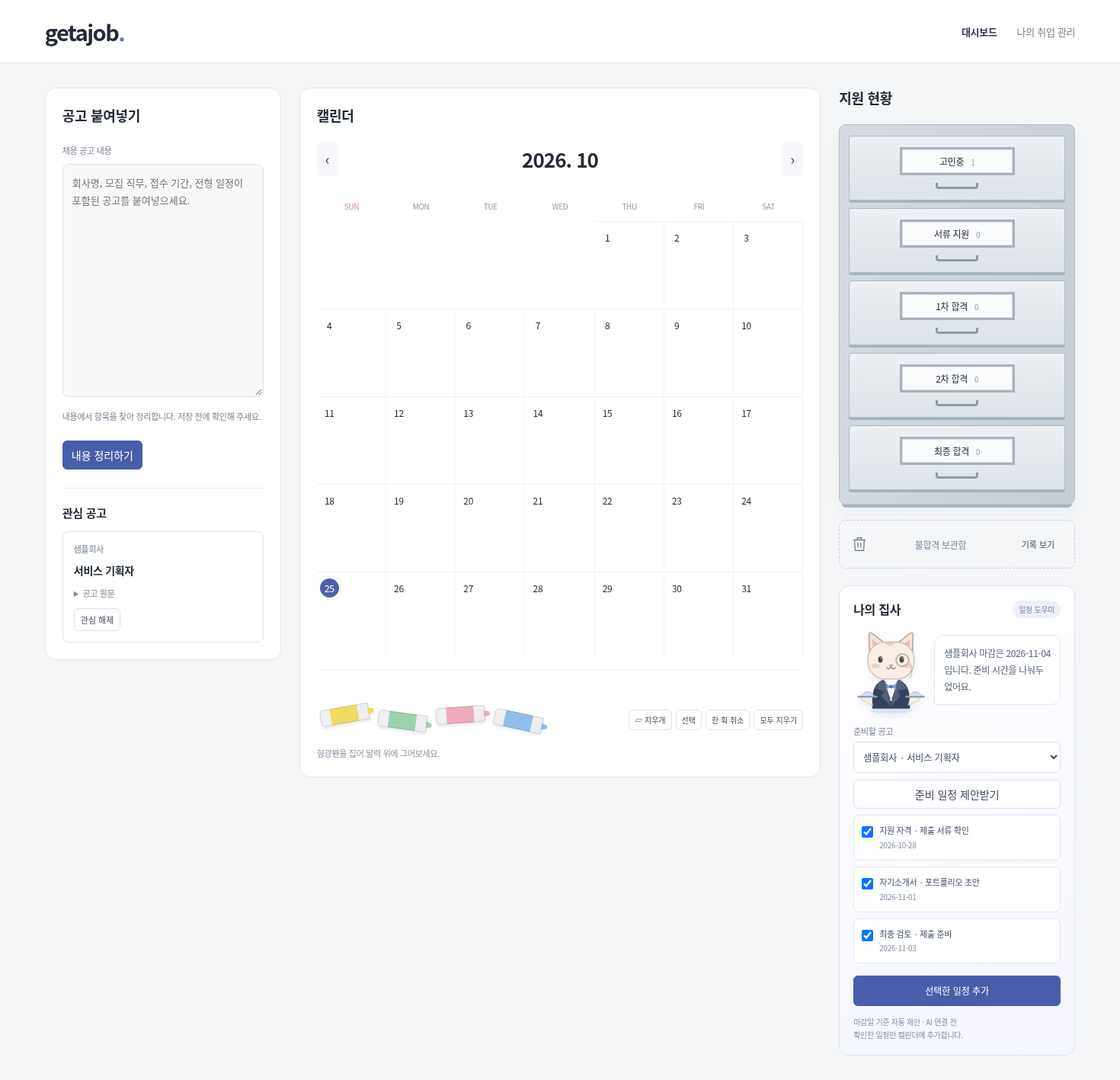
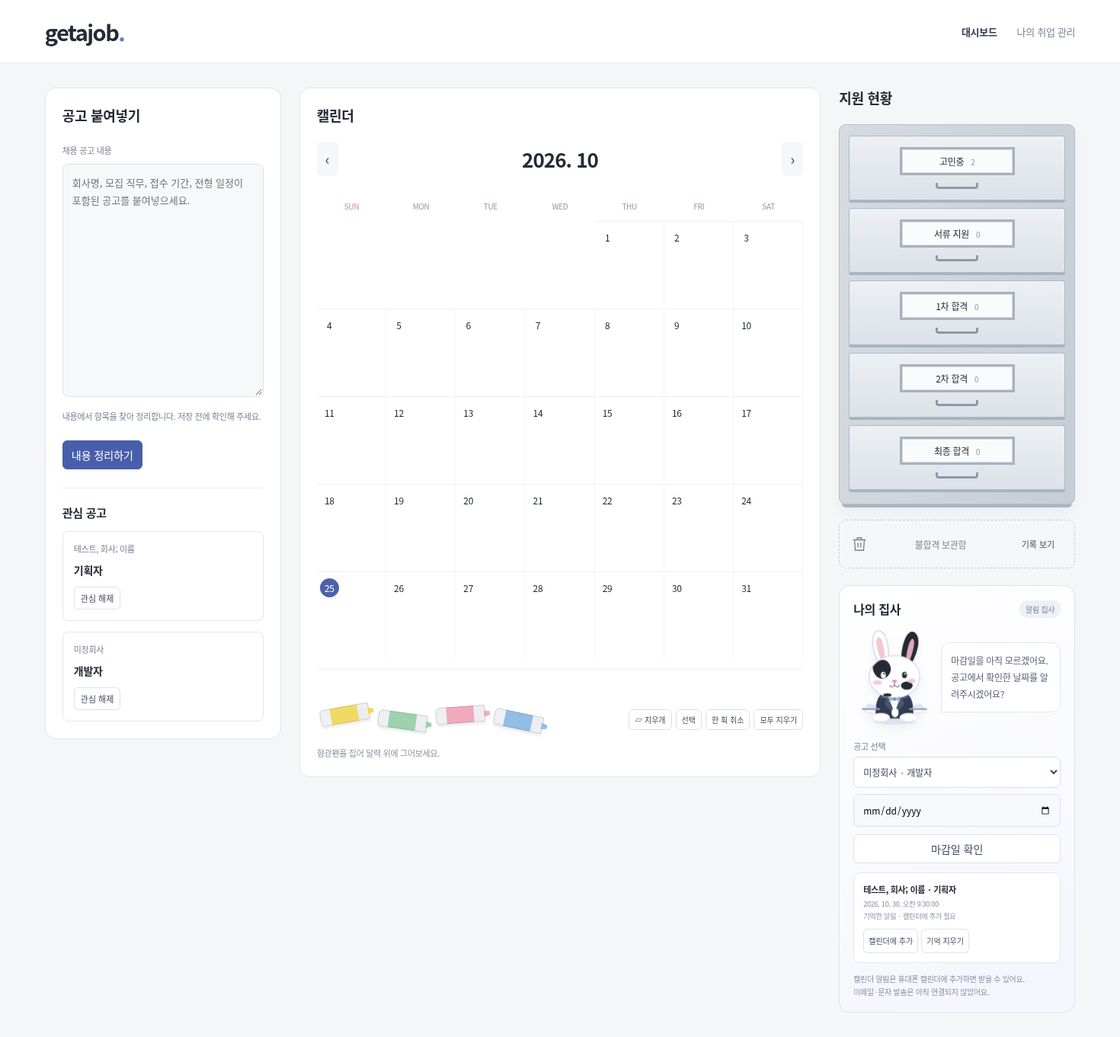
Replace butler with spotted rabbit and calendar reminder flow

diff --git a/index.html b/index.html
@@ -14,12 +14,12 @@ textarea{width:100%;resize:vertical;border:1px solid #dce1e8;border-radius:8px;b
 @media(prefers-reduced-motion:reduce){.stage-effect .confetti,.stage-effect .tear{display:none}.celebrate-badge,.cry-face{animation:effect-fade .8s ease both;transform:translate(-50%,-50%)}.drawer.celebrating{animation:none}@keyframes effect-fade{0%,100%{opacity:0}20%,70%{opacity:1}}}
 
 .butler-panel{margin-top:22px;background:linear-gradient(155deg,#fff,#f4f5fd);border:1px solid #dce2f0;border-radius:14px;padding:18px;overflow:hidden}.butler-heading{display:flex;align-items:center;justify-content:space-between;margin-bottom:8px}.butler-heading h2{margin:0;font-size:16px}.butler-status{font-size:10px;color:#7f879c;background:#edf0f9;border-radius:20px;padding:4px 8px}.butler-welcome{display:flex;align-items:center;gap:7px}.butler-avatar{width:99px;height:120px;flex-shrink:0;filter:drop-shadow(0 5px 5px #545e7915);animation:butler-breathe 4s ease-in-out infinite}.butler-eyes{transform-origin:50% 40%;animation:butler-blink 6s infinite}.butler-message{font-size:12px;line-height:1.85;background:#fff;border:1px solid #e0e5f0;padding:12px;border-radius:12px 12px 12px 2px;color:#55617b}.butler-panel label{display:block;font-size:11px;color:#758099;margin:12px 0 6px}.butler-panel select{width:100%;padding:10px 8px;border:1px solid #d8dfec;background:#fff;border-radius:7px;font-size:12px;color:#394763}.butler-panel>button{width:100%;margin-top:9px}.butler-plan{font-size:12px;color:#54617b;line-height:1.8}.plan-row{display:flex!important;align-items:start;gap:8px;background:#fff;border:1px solid #e1e6f0;border-radius:8px;padding:10px;margin:8px 0!important;color:#42506b!important}.plan-row input{width:15px;height:15px;margin:4px 0 0;flex-shrink:0}.plan-row small{display:block;color:#8490a5;font-size:10px}.plan-warning{color:#ad7950!important}.butler-note{font-size:10px;color:#8992a6;line-height:1.7;margin:12px 0 0}#applyPlan{width:100%;margin-top:8px}.butler-panel[aria-busy=true] .butler-avatar{animation:butler-breathe .7s ease-in-out infinite}@keyframes butler-breathe{0%,100%{transform:translateY(0)}50%{transform:translateY(-3px)}}@keyframes butler-blink{0%,44%,48%,100%{transform:scaleY(1)}46%{transform:scaleY(.12)}}@media(prefers-reduced-motion:reduce){.butler-avatar,.butler-eyes{animation:none}}
-</style></head><body>
+.rabbit{width:108px;height:140px}.rabbit-ears{transform-origin:70px 65px;animation:ear-wiggle 5s ease-in-out infinite}.reminder-card{margin-top:12px;padding:12px;background:white;border:1px solid #e0e5f0;border-radius:9px;font-size:11px;line-height:1.8}.reminder-card strong,.reminder-card small{display:block}.reminder-card small{color:#8390a5}.reminder-card button{padding:6px;font-size:10px;margin:8px 4px 0 0}#reminderFlow>button{width:100%;margin-top:10px}#reminderAt,#setDeadline{margin-top:8px}#reminderFlow .hint{color:#ac6f57}@keyframes ear-wiggle{0%,70%,100%{transform:rotate(0)}76%{transform:rotate(-4deg)}82%{transform:rotate(3deg)}}@media(prefers-reduced-motion:reduce){.rabbit-ears{animation:none}}</style></head><body>
 <header><div class="brand">getajob<span>.</span></div><nav><b>대시보드</b><span>나의 취업 관리</span></nav></header>
 <main><section class="panel"><h2>공고 붙여넣기</h2><noscript><p role="alert">이 미리보기에서는 버튼이 작동하지 않습니다. HTML 파일을 다운로드한 뒤 Chrome 또는 Edge에서 열어 주세요.</p></noscript><form id="pasteForm"><label for="postingText" class="caption">채용 공고 내용</label><textarea id="postingText" rows="12" maxlength="30000" required placeholder="회사명, 모집 직무, 접수 기간, 전형 일정이 포함된 공고를 붙여넣으세요."></textarea><p class="caption">내용에서 항목을 찾아 정리합니다. 저장 전에 확인해 주세요.</p><button id="organizePosting" class="primary" type="button">내용 정리하기</button><p id="pasteError" class="hint" role="alert"></p></form><section id="jobEditor" class="inline-review" hidden aria-label="공고 내용 확인"><form id="jobForm" novalidate><h2>내용 확인</h2><p class="caption">빈칸과 날짜를 확인해 주세요. 연도가 없는 날짜는 직접 지정해 주세요.</p><label for="company">회사</label><input id="company" required maxlength="60" placeholder="회사명 확인 필요"><label for="jobTitle">직무</label><input id="jobTitle" required maxlength="100" placeholder="직무 확인 필요"><label for="jobUrl">공고 링크 (선택)</label><input id="jobUrl" type="url" placeholder="https://…"><div class="section-title"><h2>마감일 · 전형 일정</h2><button id="addSchedule" type="button">+ 일정</button></div><div id="reviewSchedules"></div><p id="reviewError" role="alert" class="hint"></p><div class="actions"><button type="button" data-close>취소</button><button id="savePosting" type="button" class="primary">확인하고 저장</button></div></form></section>
 <div class="section-title"><h2>관심 공고</h2></div><div id="jobs"></div></section>
 <section class="panel calendar"><h2>캘린더</h2><div class="month"><button id="prev" aria-label="이전 달">‹</button><strong id="month"></strong><button id="next" aria-label="다음 달">›</button></div><div class="week"><span>SUN</span><span>MON</span><span>TUE</span><span>WED</span><span>THU</span><span>FRI</span><span>SAT</span></div><div class="calendar-surface" id="surface"><div class="days" id="days"></div><svg id="ink" aria-label="달력 형광펜"></svg></div><div class="tools"><div id="colors" style="display:flex;gap:3px;align-items:center"></div><div class="tool-actions"><button id="eraser" aria-label="지우개" aria-pressed="false" title="드래그해서 부분 지우기">▱ 지우개</button><button id="pointer" aria-pressed="true">선택</button><button id="undo">한 획 취소</button><button id="clearInk">모두 지우기</button></div></div><p class="hint" id="toolHint">형광펜을 집어 달력 위에 그어보세요.</p></section>
-<section class="right"><h2>지원 현황</h2><div class="cabinet" id="drawers"></div><div id="trash" class="trash"><svg viewBox="0 0 24 24" fill="none" stroke="currentColor" stroke-width="1.5"><path d="M3 6h18M9 6V3h6v3M5 6l1 15h12l1-15M10 10v7M14 10v7"/></svg><span>불합격 보관함</span><button id="showRejected">기록 보기</button></div><aside class="butler-panel" aria-label="집사 비서"><div class="butler-heading"><h2>나의 집사</h2><span class="butler-status">일정 도우미</span></div><div class="butler-welcome"><svg class="butler-avatar" viewBox="0 0 120 145" role="img" aria-label="나비넥타이와 정장을 입은 귀여운 고양이 집사"><ellipse cx="60" cy="137" rx="33" ry="5" fill="#dce2f0"/><path d="M30 122q0-36 30-36t30 36v12H30z" fill="#35425e"/><path d="M48 87h24l-12 35z" fill="#fff"/><path d="M44 89l-9 13 14 4-4 8 15 17-9-40m25-2 9 13-14 4 4 8-15 17 9-40" fill="#52607a"/><path d="M52 94l8 5-8 5zM68 94l-8 5 8 5z" fill="#8195d1"/><circle cx="60" cy="99" r="3" fill="#6276b1"/><circle cx="60" cy="120" r="2" fill="#d8dfea"/><path d="M26 53 25 17q0-6 6-2l19 15m44 23 1-36q0-6-6-2L70 30" fill="#f4e5d9" stroke="#b8a99e" stroke-width="2"/><path d="m30 24 2 22 13-11m45-11-2 22-13-11" fill="#eab9bd"/><rect x="23" y="28" width="74" height="59" rx="28" fill="#f8eee5" stroke="#cbbdb2" stroke-width="1.5"/><path d="M49 29q9 10 19 0" fill="#e3d1c1"/><g class="butler-eyes"><ellipse cx="43" cy="56" rx="3.5" ry="5" fill="#3d4050"/><ellipse cx="77" cy="56" rx="3.5" ry="5" fill="#3d4050"/><circle cx="44" cy="54" r="1" fill="white"/><circle cx="78" cy="54" r="1" fill="white"/></g><ellipse cx="35" cy="66" rx="7" ry="4" fill="#eebfc3" opacity=".65"/><ellipse cx="85" cy="66" rx="7" ry="4" fill="#eebfc3" opacity=".65"/><path d="m56 64 4 3 4-3" fill="#bd8e92"/><path d="M60 67q-3 7-7 2m7-2q3 7 7 2" fill="none" stroke="#8d7775" stroke-width="1.5" stroke-linecap="round"/><circle cx="78" cy="57" r="10" fill="none" stroke="#a99877" stroke-width="1.5"/><path d="M88 59q9 13 2 26" fill="none" stroke="#a99877" stroke-width="1"/><path d="M27 112q-13-2-15 8l19 9m60-17q13-2 15 8l-19 9" fill="#f8eee5" stroke="#cbbdb2"/><path d="M8 115h29m47 0h28" stroke="#8d9bb4" stroke-width="3" stroke-linecap="round"/><path d="M12 114q11-14 21 0m55 0q11-14 21 0" fill="#d5dfef" stroke="#9daec8"/></svg><div class="butler-message" id="butlerMessage" role="status">어서 오세요.<br>공고를 골라주시면 준비 일정을 챙겨드릴게요.</div></div><label for="butlerJob">준비할 공고</label><select id="butlerJob"><option value="">저장한 공고가 없습니다</option></select><button id="suggestPlan" type="button">준비 일정 제안받기</button><div id="butlerPlan" class="butler-plan"></div><p class="butler-note">마감일 기준 자동 제안 · AI 연결 전<br>확인한 일정만 캘린더에 추가합니다.</p></aside></section></main>
+<section class="right"><h2>지원 현황</h2><div class="cabinet" id="drawers"></div><div id="trash" class="trash"><svg viewBox="0 0 24 24" fill="none" stroke="currentColor" stroke-width="1.5"><path d="M3 6h18M9 6V3h6v3M5 6l1 15h12l1-15M10 10v7M14 10v7"/></svg><span>불합격 보관함</span><button id="showRejected">기록 보기</button></div><aside class="butler-panel" aria-label="집사 비서"><div class="butler-heading"><h2>나의 집사</h2><span class="butler-status">알림 집사</span></div><div class="butler-welcome"><svg class="butler-avatar rabbit" viewBox="0 0 140 170" role="img" aria-label="흰 털에 검정 점박이, 긴 귀와 나비넥타이를 한 토끼 집사"><ellipse cx="70" cy="160" rx="35" ry="5" fill="#dce2ef"/><g class="rabbit-ears"><path d="M48 71C23 26 34 0 47 7c13 7 13 36 14 57" fill="#fff" stroke="#ced3de" stroke-width="1.5"/><path d="M81 65C80 25 94-2 106 10c12 13-1 44-13 61" fill="#242a35"/><path d="M47 54C36 30 38 15 44 17s9 20 10 35" fill="#f4c7d3"/><path d="M90 54c1-20 8-38 12-34s-1 23-6 36" fill="#e1a8bc"/></g><path d="M38 143c0-24 10-37 32-37s32 13 32 37v12H38z" fill="#303b54"/><path d="m55 108 15 37 15-37" fill="#fff"/><path d="m53 108-8 12 12 2-4 8 17 20-13-40m30-2 8 12-12 2 4 8-17 20 13-40" fill="#485672"/><ellipse cx="71" cy="145" rx="6" ry="8" fill="#fff"/><ellipse cx="47" cy="153" rx="15" ry="7" fill="#fff" stroke="#e0e4ec"/><ellipse cx="94" cy="153" rx="15" ry="7" fill="#fff" stroke="#e0e4ec"/><ellipse cx="70" cy="84" rx="43" ry="36" fill="#fff" stroke="#d3d8e2" stroke-width="1.5"/><path d="M33 67q14-18 25-9c10 10 6 23-4 28S33 80 33 67" fill="#242a35"/><ellipse cx="91" cy="99" rx="10" ry="7" fill="#242a35"/><ellipse cx="58" cy="115" rx="7" ry="3" fill="#242a35"/><g class="butler-eyes"><ellipse cx="51" cy="81" rx="4.2" ry="5.5" fill="#fff"/><ellipse cx="87" cy="81" rx="4.2" ry="5.5" fill="#282d38"/><circle cx="52" cy="79" r="1.5" fill="#282d38"/><circle cx="88" cy="79" r="1.5" fill="#fff"/></g><ellipse cx="41" cy="94" rx="8" ry="4" fill="#f2becb" opacity=".8"/><ellipse cx="99" cy="91" rx="7" ry="4" fill="#f2becb" opacity=".8"/><path d="m65 91 5 4 5-4q-5-4-10 0" fill="#d996ae"/><path d="M70 95v3m0 0q-4 6-8 1m8-1q4 6 8 1" fill="none" stroke="#8a7580" stroke-width="1.6" stroke-linecap="round"/><path d="m61 117 9 5-9 5zm18 0-9 5 9 5z" fill="#9eaede"/><circle cx="70" cy="122" r="3" fill="#7489c2"/><path d="M33 133q-10-6-13 4t14 8m72-12q10-6 13 4t-14 8" fill="#fff" stroke="#d3d8e2"/><path d="M16 139h28m52 0h28" stroke="#8e9db9" stroke-width="3" stroke-linecap="round"/><path d="M20 137q10-13 20 0m60 0q10-13 20 0" fill="#dbe3f3"/></svg><div class="butler-message" id="butlerMessage" role="status">어서 오세요.<br>공고를 골라주시면 마감 알림을 챙겨드릴게요.</div></div><label for="butlerJob">공고 선택</label><select id="butlerJob"><option value="">저장한 공고가 없습니다</option></select><div id="reminderFlow"></div><div id="reminderList"></div><p class="butler-note">캘린더 알림은 휴대폰 캘린더에 추가하면 받을 수 있어요.<br>이메일·문자 발송은 아직 연결되지 않았어요.</p></aside></section></main>
 <dialog id="editor"><form id="eventForm"><h2 id="eventHeading">일정</h2><label for="eventTitle">일정 이름</label><input id="eventTitle" required maxlength="70" placeholder="서류 마감, 면접"><div class="actions"><button type="button" data-close>취소</button><button type="button" id="saveEvent" class="primary">저장</button><p id="eventError" role="alert"></p></div></form></dialog>
 <dialog id="archive"><h2>불합격 보관함</h2><div id="archiveList"></div><div class="actions"><button data-close>닫기</button></div></dialog><div id="toast" role="status"></div><div id="effectAnnouncement" class="sr-only" role="status" aria-live="polite"></div>
 <script>
@@ -66,12 +66,17 @@ function organizePosting(){const button=$('#organizePosting');$('#pasteError').t
 function createJobId(){if(globalThis.crypto&&typeof globalThis.crypto.randomUUID==='function')return globalThis.crypto.randomUUID();if(globalThis.crypto&&typeof globalThis.crypto.getRandomValues==='function'){const bytes=new Uint8Array(16);globalThis.crypto.getRandomValues(bytes);return 'job-'+Array.from(bytes,b=>b.toString(16).padStart(2,'0')).join('')}let id;do{id='job-'+Date.now().toString(36)+'-'+Math.random().toString(36).slice(2)}while(state.jobs.some(j=>j.id===id));return id}
 function reviewError(message,field){$('#reviewError').textContent=message;if(field){field.setAttribute('aria-invalid','true');field.focus()}else $('#reviewError').scrollIntoView({block:'nearest'})}
 function savePosting(){const button=$('#savePosting');if(button.disabled)return;$('#reviewError').textContent='';$('#jobForm').querySelectorAll('[aria-invalid]').forEach(n=>n.removeAttribute('aria-invalid'));const company=$('#company').value.trim(),title=$('#jobTitle').value.trim();if(!company){reviewError('회사명을 입력해 주세요. 자동으로 찾지 못한 항목은 직접 입력할 수 있어요.',$('#company'));return}if(!title){reviewError('직무를 입력해 주세요.',$('#jobTitle'));return}const url=$('#jobUrl').value.trim();if(url&&!safeUrl(url)){reviewError('공고 링크를 확인해 주세요. 링크 없이도 저장할 수 있어요.',$('#jobUrl'));return}if(state.jobs.some(j=>j.sourceText===pendingSource)){reviewError('이미 저장한 공고입니다. 고민중 서랍을 확인해 주세요.');return}const schedules=[];for(const row of document.querySelectorAll('#reviewSchedules .schedule-row')){const inputs=row.querySelectorAll('input');if(!inputs[0].checked)continue;if(!inputs[1].value.trim()){reviewError('선택한 일정의 이름을 입력해 주세요.',inputs[1]);return}if(!inputs[2].value||!inputs[2].validity.valid){reviewError('선택한 일정의 날짜를 입력하거나, 캘린더 추가 체크를 해제해 주세요.',inputs[2]);return}schedules.push({title:inputs[1].value.trim(),date:inputs[2].value})}button.disabled=true;button.textContent='저장 중…';let previous;let persisted=false;try{previous=JSON.stringify(state);const id=createJobId();state.jobs.push({id,company,title,url,stage:'고민중',sourceText:pendingSource,schedules});for(const schedule of schedules){const [y,m,d]=schedule.date.split('-').map(Number),key=y+'-'+m+'-'+d;if(!Array.isArray(state.events[key]))state.events[key]=[];state.events[key].push({title:company+' · '+schedule.title,jobId:id})}if(!save()){state=JSON.parse(previous);reviewError('저장하지 못했습니다. 브라우저 저장 권한이나 저장 공간을 확인해 주세요.');return}persisted=true;if(schedules.length){const [y,m]=schedules[0].date.split('-').map(Number);year=y;month=m-1}render();calendar();$('#jobEditor').hidden=true;$('#postingText').value='';$('#pasteError').textContent='저장 완료 · 고민중 서랍'+(schedules.length?' · 캘린더 '+schedules.length+'개':'');toast('고민중에 저장했어요.'+(schedules.length?' 일정 '+schedules.length+'개를 추가했어요.':''))}catch(error){if(!persisted&&previous)state=JSON.parse(previous);reviewError(persisted?'공고는 저장됐지만 화면을 갱신하지 못했어요. 새로고침해 주세요.':'저장 중 문제가 생겼어요. 입력 내용은 유지됩니다. 다시 시도해 주세요.');console.error('Posting save failed',error)}finally{button.disabled=false;button.textContent='확인하고 저장'}}
-let butlerProposals=[],butlerJobId='';
-function refreshButler(){const selected=$('#butlerJob').value;const jobs=state.jobs.filter(j=>!['불합격','최종 합격'].includes(j.stage));$('#butlerJob').replaceChildren();jobs.forEach(j=>{const option=node('option','',j.company+' · '+j.title);option.value=j.id;$('#butlerJob').append(option)});if(!jobs.length){const option=node('option','','저장한 공고가 없습니다');option.value='';$('#butlerJob').append(option)}else if(jobs.some(j=>j.id===selected))$('#butlerJob').value=selected;$('#suggestPlan').disabled=!jobs.length;$('#butlerPlan').replaceChildren();butlerProposals=[];if(!jobs.length)$('#butlerMessage').textContent='공고를 저장해 주세요. 준비할 일을 함께 정리해 드릴게요.';else $('#butlerMessage').textContent='준비할 공고를 골라주세요. 마감일을 기준으로 일정을 제안해 드릴게요.'}
 function localDate(date){return date.getFullYear()+'-'+String(date.getMonth()+1).padStart(2,'0')+'-'+String(date.getDate()).padStart(2,'0')}
-function makePreparationPlan(job,today=new Date()){const deadlines=(job.schedules||[]).filter(s=>/마감|접수|지원.*기간/.test(s.title)&&/^\d{4}-\d{2}-\d{2}$/.test(s.date)).sort((a,b)=>a.date.localeCompare(b.date));if(!deadlines.length)return {error:'마감일을 확인할 수 없어요. 캘린더에 날짜를 적는 대신, 공고에 서류 마감 일정을 추가해 주시겠어요?'};const deadline=deadlines[0].date;const [y,m,d]=deadline.split('-').map(Number);const due=new Date(y,m-1,d);const start=new Date(today.getFullYear(),today.getMonth(),today.getDate());if(localDate(due)!==deadline)return {error:'마감 날짜를 다시 확인해 주세요.'};if(due<start)return {error:'마감일이 지난 공고예요. 접수 가능 여부를 먼저 확인해 주세요.'};const span=Math.round((Date.UTC(y,m-1,d)-Date.UTC(start.getFullYear(),start.getMonth(),start.getDate()))/86400000);const titles=['지원 자격 · 제출 서류 확인',/포트폴리오/.test(job.sourceText||'')?'자기소개서 · 포트폴리오 초안':'이력서 · 자기소개서 초안','최종 검토 · 제출 준비'];const tasks=titles.map((title,i)=>{const date=new Date(due);date.setDate(date.getDate()-Math.min([7,3,1][i],span));return {title,date:localDate(date),planKey:'prep-'+i}});return {deadline,tasks,urgent:span<3}}
-$('#butlerJob').onchange=()=>{$('#butlerPlan').replaceChildren();butlerProposals=[]};
-$('#suggestPlan').onclick=()=>{const job=state.jobs.find(j=>j.id===$('#butlerJob').value);if(!job)return;butlerJobId=job.id;const plan=makePreparationPlan(job);$('#butlerPlan').replaceChildren();butlerProposals=[];if(plan.error){$('#butlerMessage').textContent=plan.error;return}$('#butlerMessage').textContent=job.company+' 마감은 '+plan.deadline+'입니다. '+(plan.urgent?'시간이 촉박해 오늘부터 준비하도록 나눴어요.':'준비 시간을 나눠두었어요.');plan.tasks.forEach(task=>{const exists=Object.values(state.events).flat().some(e=>e.jobId===job.id&&e.planKey===task.planKey);if(exists)return;butlerProposals.push(task);const row=node('label','plan-row'),check=node('input');check.type='checkbox';check.checked=true;check.dataset.planKey=task.planKey;const content=node('span','',task.title);content.append(node('small','',task.date));const [y,m,d]=task.date.split('-').map(Number);const existing=(state.events[y+'-'+m+'-'+d]||[]);if(existing.length)content.append(node('small','plan-warning','기존 일정 '+existing.length+'개 · 시간 확인 필요'));row.append(check,content);$('#butlerPlan').append(row)});if(!butlerProposals.length){$('#butlerMessage').textContent='이 공고의 준비 일정은 이미 캘린더에 담겨 있어요.';return}const apply=node('button','primary','선택한 일정 추가');apply.id='applyPlan';apply.onclick=applyButlerPlan;$('#butlerPlan').append(apply)};
-function applyButlerPlan(){const job=state.jobs.find(j=>j.id===butlerJobId);if(!job)return;const keys=[...document.querySelectorAll('#butlerPlan input:checked')].map(n=>n.dataset.planKey);const tasks=butlerProposals.filter(t=>keys.includes(t.planKey));if(!tasks.length){$('#butlerMessage').textContent='추가할 일정을 하나 이상 골라주세요.';return}const previous=JSON.stringify(state);let added=0;tasks.forEach(task=>{if(Object.values(state.events).flat().some(e=>e.jobId===job.id&&e.planKey===task.planKey))return;const [y,m,d]=task.date.split('-').map(Number),key=y+'-'+m+'-'+d;if(!Array.isArray(state.events[key]))state.events[key]=[];state.events[key].push({title:job.company+' · '+task.title,jobId:job.id,planKey:task.planKey});added++});if(!save()){state=JSON.parse(previous);$('#butlerMessage').textContent='저장하지 못했어요. 브라우저 저장 공간을 확인해 주세요.';return}const [y,m]=tasks[0].date.split('-').map(Number);year=y;month=m-1;calendar();$('#butlerPlan').replaceChildren();$('#butlerMessage').textContent='준비 일정 '+added+'개를 캘린더에 챙겨두었어요.';toast('준비 일정을 추가했어요.')}
+state.reminders=Array.isArray(state.reminders)?state.reminders:[];
+function deadlineFor(job){return (job.schedules||[]).filter(s=>/마감|접수|지원.*기간/.test(s.title)&&/^\d{4}-\d{2}-\d{2}$/.test(s.date)).map(s=>s.date).sort()[0]||''}
+function refreshButler(){const selected=$('#butlerJob').value,jobs=state.jobs.filter(j=>!['불합격','최종 합격'].includes(j.stage));$('#butlerJob').replaceChildren();const placeholder=node('option','',jobs.length?'공고를 골라주세요':'저장한 공고가 없습니다');placeholder.value='';$('#butlerJob').append(placeholder);jobs.forEach(j=>{const option=node('option','',j.company+' · '+j.title);option.value=j.id;$('#butlerJob').append(option)});if(jobs.some(j=>j.id===selected))$('#butlerJob').value=selected;showReminderIntro();renderReminders()}
+function showReminderIntro(){$('#reminderFlow').replaceChildren();const job=state.jobs.find(j=>j.id===$('#butlerJob').value);if(!job){$('#butlerMessage').textContent='공고를 골라주시면 마감 알림을 챙겨드릴게요.';return}const date=deadlineFor(job);if(!date){$('#butlerMessage').textContent='마감일을 아직 모르겠어요. 공고에서 확인한 날짜를 알려주시겠어요?';const input=node('input');input.type='date';input.id='setDeadline';input.setAttribute('aria-label','공고 마감일');const button=node('button','', '마감일 확인');button.type='button';button.onclick=()=>{if(!input.value){$('#butlerMessage').textContent='확인한 마감 날짜를 선택해 주세요.';return}const previous=JSON.stringify(state);job.schedules=job.schedules||[];job.schedules.push({title:'서류 지원 마감',date:input.value});if(!save()){state=JSON.parse(previous);return}showReminderIntro()};$('#reminderFlow').append(input,button);return}$('#butlerMessage').textContent=job.company+' 공고 마감일은 '+date+'입니다. 알림을 드릴까요?';const yes=node('button','primary','네, 알려줘');yes.id='startReminder';yes.onclick=()=>showReminderPicker(job,date);$('#reminderFlow').append(yes)}
+$('#butlerJob').onchange=showReminderIntro;
+function showReminderPicker(job,deadline){$('#butlerMessage').textContent='언제 알림을 드릴까요?';$('#reminderFlow').replaceChildren();const label=node('label','','알림 받을 날짜와 시간'),input=node('input');input.type='datetime-local';input.id='reminderAt';input.setAttribute('aria-label','알림 받을 날짜와 시간');const today=new Date(),date=new Date(deadline+'T09:00:00');date.setDate(date.getDate()-1);if(date>today)input.value=localDate(date)+'T09:00';const hint=node('p','butler-note','이 기기의 시간대 기준 · 휴대폰 캘린더 알림');const error=node('p','hint');error.id='reminderError';error.setAttribute('role','alert');const button=node('button','primary','집사에게 기억시키기');button.id='saveReminder';button.onclick=()=>{const at=new Date(input.value);if(!input.value||!Number.isFinite(at.getTime())||at<=new Date()){error.textContent='지금보다 뒤의 날짜와 시간을 선택해 주세요.';return}if(input.value.slice(0,10)>deadline){error.textContent='마감일까지의 날짜를 선택해 주세요.';return}if(state.reminders.some(r=>r.jobId===job.id&&r.at===at.toISOString())){error.textContent='이미 기억해 둔 알림이에요.';return}const reminder={id:createJobId(),jobId:job.id,company:job.company,title:job.title,deadline,at:at.toISOString(),created:new Date().toISOString()};state.reminders.push(reminder);if(!save()){state.reminders.pop();error.textContent='저장하지 못했어요. 브라우저 저장 공간을 확인해 주세요.';return}$('#butlerMessage').textContent='집사 머릿속에 저장되었습니다!';$('#reminderFlow').replaceChildren(node('p','butler-note','알림을 받으려면 아래 파일을 휴대폰 캘린더에 추가해 주세요. 저장만으로는 알림이 발송되지 않아요.'));renderReminders()};$('#reminderFlow').append(label,input,hint,button,error)}
+function escapeCalendar(text){return String(text).replace(/\\/g,'\\\\').replace(/\r?\n/g,'\\n').replace(/;/g,'\\;').replace(/,/g,'\\,')}
+function calendarStamp(date){return new Date(date).toISOString().replace(/[-:]/g,'').replace(/\.\d{3}Z$/,'Z')}
+function reminderCalendar(r){const stamp=calendarStamp(r.at),end=calendarStamp(new Date(new Date(r.at).getTime()+600000));const lines=['BEGIN:VCALENDAR','VERSION:2.0','PRODID:-//getajob//Reminder//KO','CALSCALE:GREGORIAN','BEGIN:VEVENT','UID:'+r.id+'@getajob','DTSTAMP:'+calendarStamp(r.created),'DTSTART:'+stamp,'DTEND:'+end,'SUMMARY:'+escapeCalendar(r.company+' · '+r.title+' 지원 마감 알림'),'DESCRIPTION:'+escapeCalendar('공고 마감일: '+r.deadline+'\n공고 원문에서 마감 시간을 확인해 주세요.'),'BEGIN:VALARM','TRIGGER:PT0S','ACTION:DISPLAY','DESCRIPTION:'+escapeCalendar(r.company+' 지원 마감을 확인해 주세요.'),'END:VALARM','END:VEVENT','END:VCALENDAR'];return lines.map(line=>{let output='',bytes=0;for(const char of line){const size=new TextEncoder().encode(char).length;if(bytes+size>73){output+='\r\n ';bytes=1}output+=char;bytes+=size}return output}).join('\r\n')+'\r\n'}
+function downloadReminder(r){const blob=new Blob([reminderCalendar(r)],{type:'text/calendar;charset=utf-8'}),url=URL.createObjectURL(blob),link=node('a');link.href=url;link.download='getajob-reminder.ics';document.body.append(link);link.click();link.remove();setTimeout(()=>URL.revokeObjectURL(url),1000)}
+function renderReminders(){$('#reminderList').replaceChildren();state.reminders.filter(r=>state.jobs.some(j=>j.id===r.jobId)).slice().sort((a,b)=>a.at.localeCompare(b.at)).forEach(r=>{const row=node('div','reminder-card');row.append(node('strong','',r.company+' · '+r.title),node('small','',new Date(r.at).toLocaleString('ko-KR')),node('small','', '기억한 알림 · 캘린더에 추가 필요'));const download=node('button','','캘린더에 추가');download.onclick=()=>downloadReminder(r);const remove=node('button','','기억 지우기');remove.onclick=()=>{const previous=state.reminders;state.reminders=state.reminders.filter(x=>x.id!==r.id);if(!save()){state.reminders=previous;return}renderReminders();$('#butlerMessage').textContent='기억에서 지웠어요. 휴대폰에 추가한 일정은 캘린더에서도 지워주세요.'};row.append(download,remove);$('#reminderList').append(row)})}
 $('#savePosting').onclick=savePosting;$('#jobForm').onsubmit=e=>{e.preventDefault();savePosting()};render();calendar();
 </script></body></html>

diff --git a/docs/product-plan.md b/docs/product-plan.md
@@ -28,3 +28,6 @@
 
 ## 집사 비서
 오른쪽 아래에 외알안경·나비넥타이·정장을 입은 고양이 집사를 추가했다. 저장 공고를 선택하면 마감 7일·3일·1일 전 준비 일정을 제안한다. 오늘보다 앞선 날짜는 오늘로 조정하고 지난 마감·미상 마감은 제안하지 않는다. 원문에 포트폴리오가 있으면 초안 업무에 포함한다. 겹치는 날짜의 일정 개수를 표시한다. 체크한 일정만 추가하며 중복 추가를 막는다. 실제 AI 연결은 아직 없고 자동 제안임을 화면에서 명시한다. `node tests/butler.cjs`로 검증한다.
+
+## 현재 집사 흐름 변경
+사용자 선택에 따라 휴대폰 캘린더 알림부터 구현했다. 고양이→흰색·검정 점박이 토끼. 준비 일정 제안 제거. 공고 선택→마감일 안내→알림 날짜·시간 선택→집사 머릿속에 저장→사용자가 .ics 캘린더 가져오기. 브라우저 저장과 실제 알림 등록을 명확히 구분한다. 캘린더 앱의 가져오기·알림 허용 필요. 이메일·SMS 발송은 미연결. ICS의 UTC 시각·DISPLAY 알림·한국어 줄바꿈·문자 이스케이프·중복 방지 검증. 실제 휴대폰 수신은 미검증.
